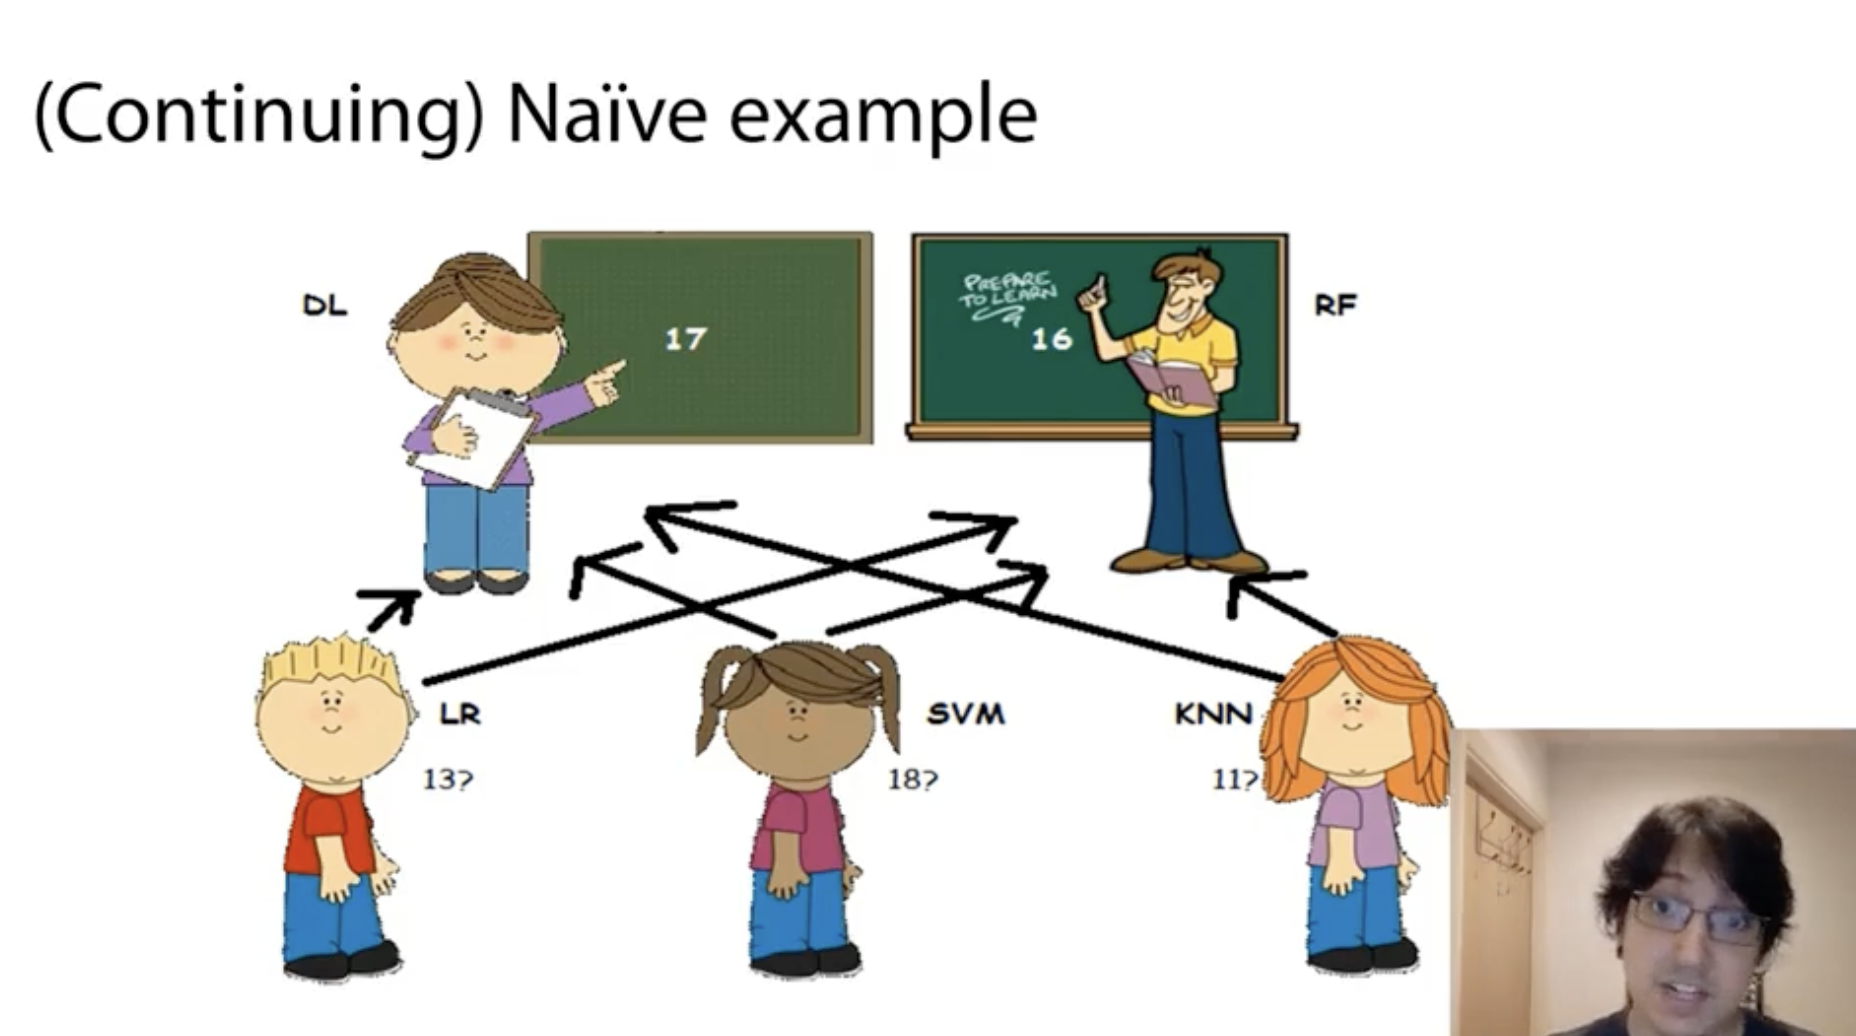
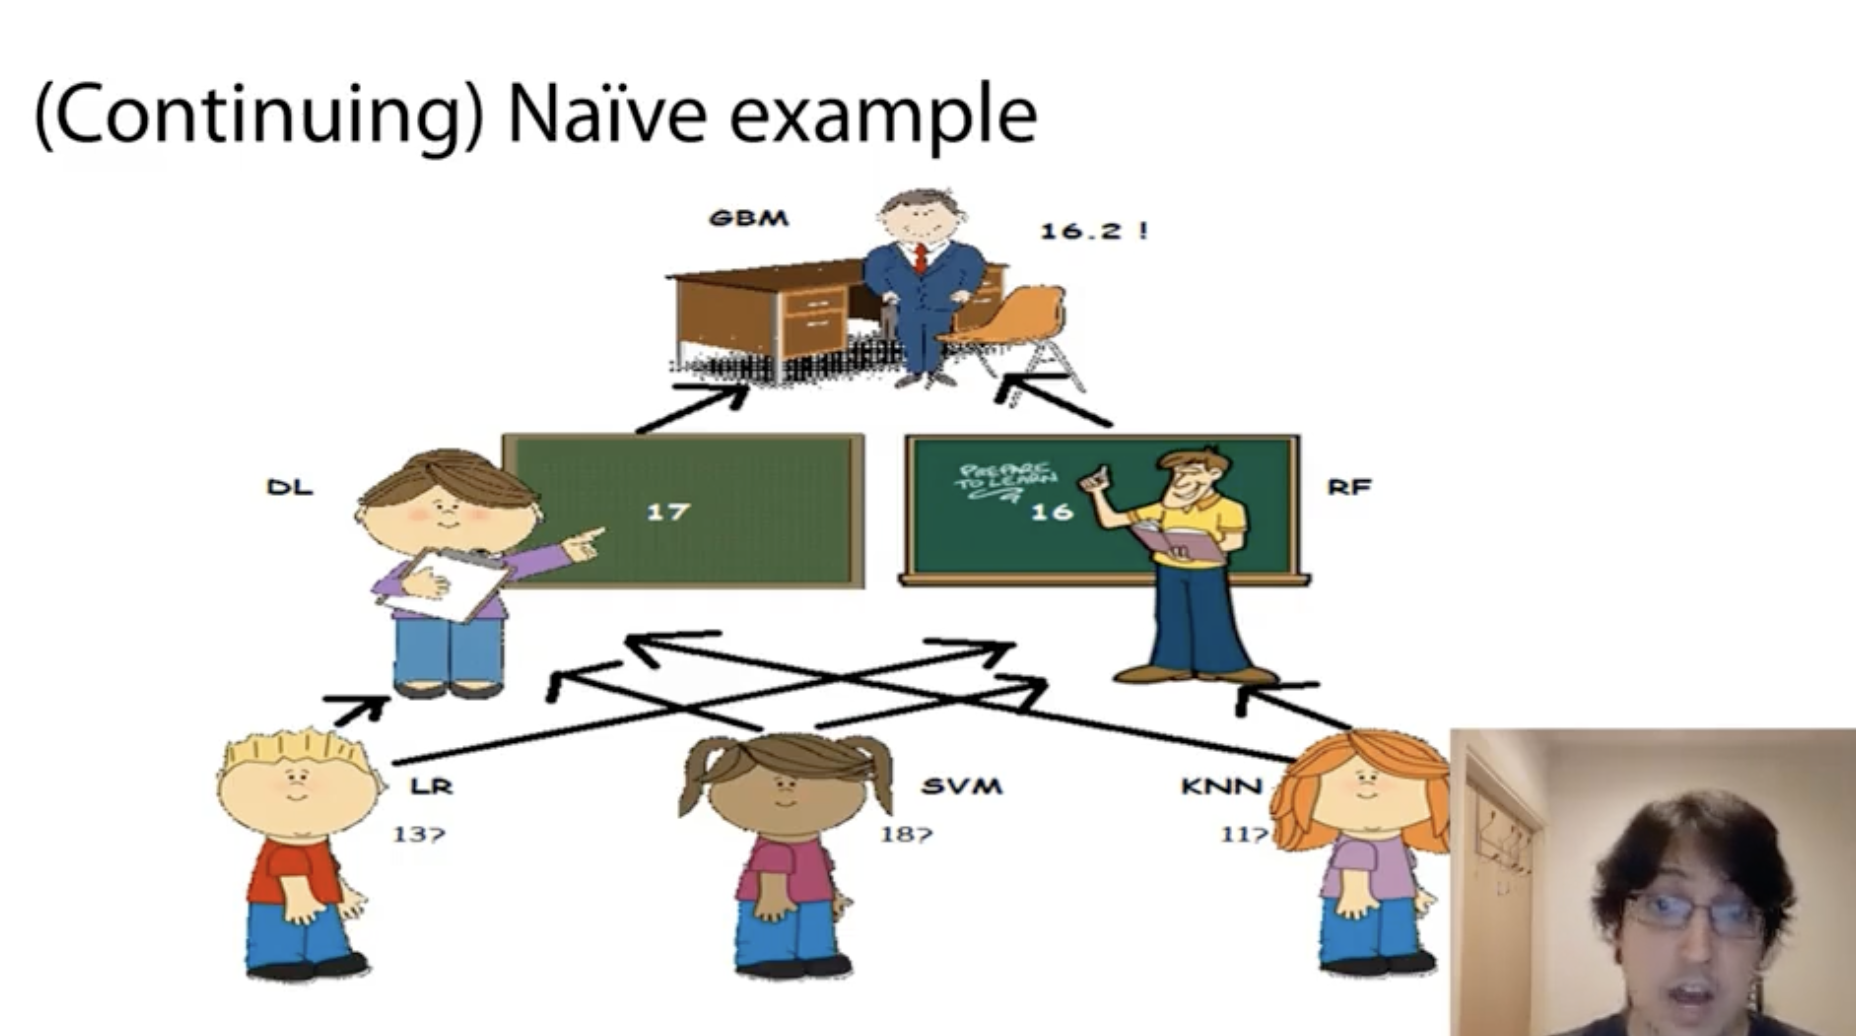
Update w4

diff --git a/note/week4.md b/note/week4.md
@@ -488,8 +488,40 @@ Consider dataset A, B, C, and we only know y label for A, B
 
 ### 5.5 StackNet
 
-A scalable meta modelling methodology that utilizes stacking to combine multiple models in a neural network architecture of multiple layers.
+#### 5.5.1 Introduction
+
+- What: A scalable meta modelling methodology that utilizes stacking to combine multiple models in a neural network architecture of multiple layers.
 
 <p align="center">
   <img src="../res/img/img258.png" width="600"/>
 </p>
+
+- Why would this be of any use
+
+<p align="center">
+  <img src="../res/img/img259.png" width="500"/>
+  <img src="../res/img/img260.png" width="500"/>
+</p>
+
+- StackNet as a nerual network
+
+<p align="center">
+  <img src="../res/img/img261.png" width="600"/>
+</p>
+
+#### 5.5.2 How to train
+
+- Use a K-fold paradigm
+- We have a dataset with x0, x1, x2, x3, and y; k = 4 here
+- Procedure
+  1. Use k-1 of the folds train the model, and make prediction on the last fold
+  2. Repeat for k times
+  3. Use the whole train set to get predict value for the test set / use k previous models to get k sets of predictions on test set, and get the average prediction
+  4. Start with another model and repeat step 1~3, and stack your pred results
+
+<p align="center">
+  <img src="../res/img/img262.png" width="500"/>
+  <img src="../res/img/img263.png" width="500"/>
+</p>
+
+#### 5.5.3 Small tips
